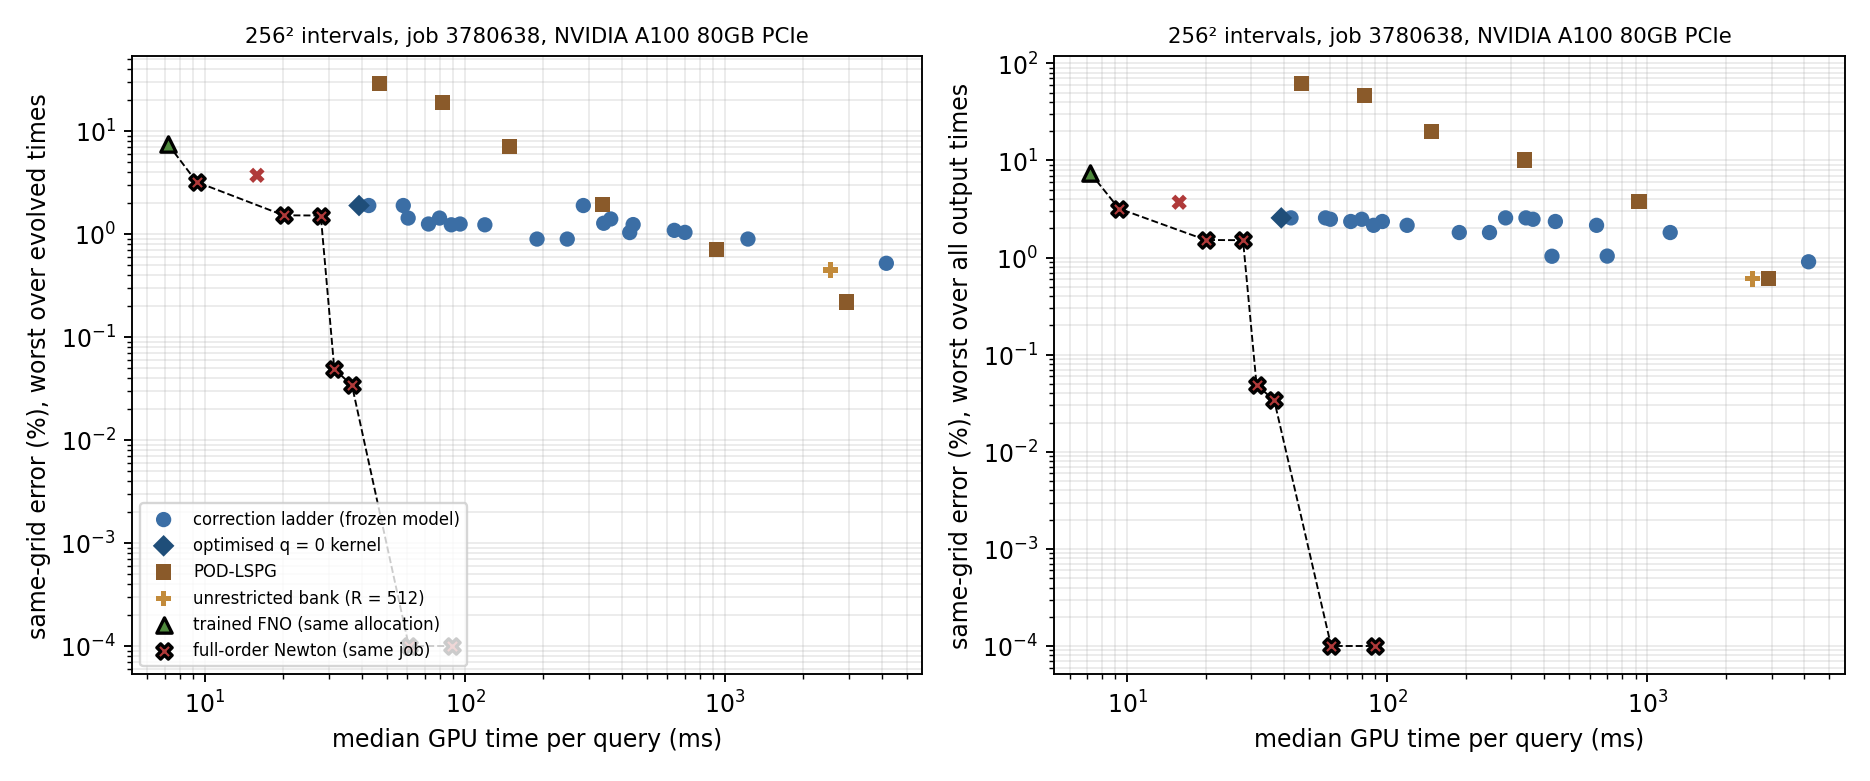
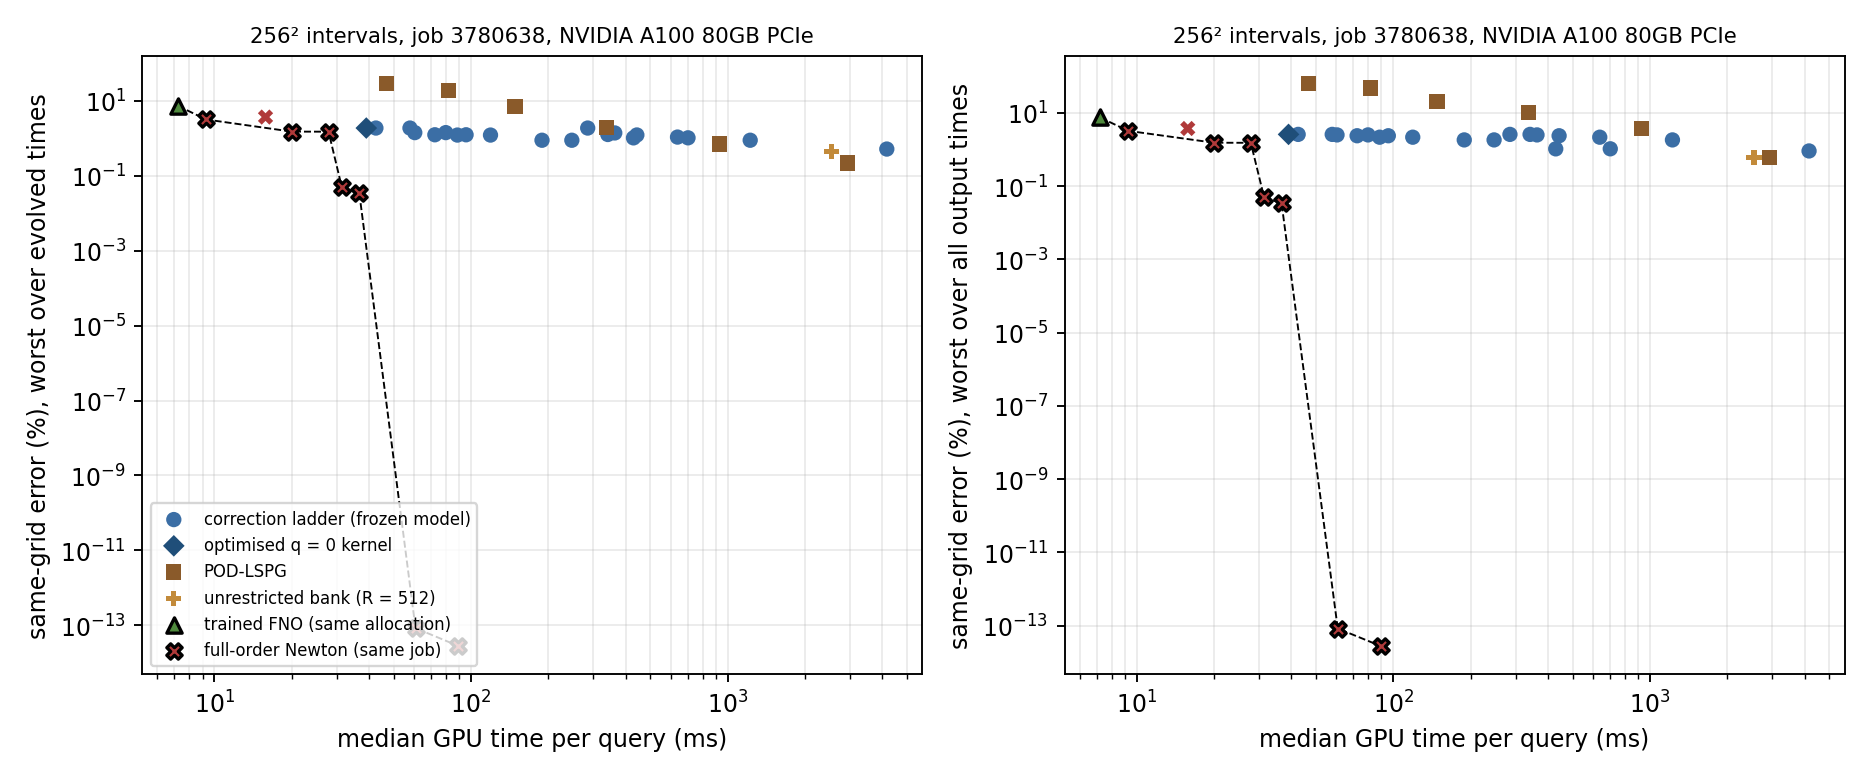
b-panel: generated metric caveat, frontier headline, data-derived plot floor
Claude-Session: https://claude.ai/code/session_01Pigf6iVeGjo2XHb1pgrCVn

diff --git a/experiments/b-panel/reports/generate_panel.py b/experiments/b-panel/reports/generate_panel.py
@@ -47,6 +47,10 @@ def table(header, rows):
     return '\n'.join(out) + '\n'
 
 
+def by_arm(au, name):
+    return next((x for x in au['arms'] if x['arm'] == name), None)
+
+
 def sub_label(x):
     if x['family'] in ('rom', 'fast'):
         return f"q={x['q']}"
@@ -59,6 +63,9 @@ def figure(au, out_png, out_pdf, out_json):
     rows = au['arms']
     fig, axes = plt.subplots(1, 2, figsize=(11, 4.6))
     plotted = []
+    pos = [x[k] for x in rows for k in ('worst_evolved_percent', 'worst_all_times_percent')
+           if x.get(k) is not None and x[k] > 0]
+    floor = min(pos) / 3. if pos else 1e-4      # exactly-zero subjects are the same-grid reference itself
     for ax, ek, title in ((axes[0], 'worst_evolved_percent', 'worst over evolved times'),
                           (axes[1], 'worst_all_times_percent', 'worst over all output times')):
         nd = set(au['nondominated']['gpu_evolved' if ek.startswith('worst_evolved') else 'gpu_all']['admissible'])
@@ -70,14 +77,14 @@ def figure(au, out_png, out_pdf, out_json):
             fam = x['family']
             lab = LABEL[fam] if fam not in seen else None
             seen.add(fam)
-            ax.scatter(c, max(er, 1e-4), marker=MARK[fam], s=42 if x['admissible'] else 26, c=COLOR[fam],
+            ax.scatter(c, max(er, floor), marker=MARK[fam], s=42 if x['admissible'] else 26, c=COLOR[fam],
                        alpha=1. if x['admissible'] else .45, edgecolors='k' if x['arm'] in nd else 'none',
                        linewidths=1.4 if x['arm'] in nd else 0, label=lab, zorder=3)
             plotted.append(dict(metric=ek, arm=x['arm'], family=fam, median_gpu_ms=c, error_percent=er,
                                 admissible=x['admissible'], nondominated=(x['arm'] in nd)))
         front = sorted([x for x in rows if x['arm'] in nd], key=lambda z: z['median_gpu_ms'])
         if front:
-            ax.plot([z['median_gpu_ms'] for z in front], [max(z[ek], 1e-4) for z in front], 'k--', lw=.8, zorder=2)
+            ax.plot([z['median_gpu_ms'] for z in front], [max(z[ek], floor) for z in front], 'k--', lw=.8, zorder=2)
         ax.set_xscale('log')
         ax.set_yscale('log')
         ax.set_xlabel('median GPU time per query (ms)')
@@ -102,6 +109,22 @@ def section(W, au, tag):
       f"Costs are medians over 6 cases × 3 repetitions; ratios are only meaningful inside this table.\n")
     if au['dropped']:
         W('**Subjects dropped by the OOM rule (DESIGN.md §3.1):** ' + ', '.join(f"`{d['name']}` ({d['phase']})" for d in au['dropped']) + '\n')
+    zero = [x['arm'] for x in au['arms'] if x['worst_all_times_percent'] <= 0.]
+    disc = au['fom_discretisation_error_percent']
+    if zero:
+        W('### How to read the two error columns\n')
+        verb = 'sits' if len(zero) == 1 else 'sit'
+        W(f"The same-grid columns measure every subject against this job's converged `fft_tight` solve, so "
+          f"**{' and '.join(f'`{z}`' for z in zero)} {verb} at exactly zero there by construction** — "
+          f"`fft_tight` *is* the reference, and `dense_tight`, the same solve through a different "
+          f"preconditioner, agrees with it to "
+          f"{sci(au['checks']['direct_reproduces_fft_tight']['detail']['worst_relative'])} relative. They are "
+          f"plotted at the axis floor, and they appear on the same-grid frontier for that reason, not because "
+          f"they are free. The `worst vs ref %` column is where the full-order solvers are not free: against the "
+          f"4096-interval reference this mesh's own discretisation error is "
+          f"{f(min(disc.values()))}–{f(max(disc.values()))} % for the full-order controls, and every reduced "
+          f"subject inherits it. A reduced subject is only interesting where it is cheaper than a full-order "
+          f"solve of the accuracy it actually delivers.\n")
     W('### Every subject\n')
     hdr = ['subject', 'family', 'q / k′', 'M', 'quad.', 'm', 'rule basis', 'tol', 'worst all %', 'worst evolved %',
            'median evolved %', 't=0 %', 'worst vs ref %', 'GPU ms', 'complete ms', 'med it', 'max it', 'budget exits',
@@ -120,6 +143,22 @@ def section(W, au, tag):
     W(table(hdr, [[f"`{x['arm']}`", json.dumps(x['exit_reason_counts']), sci(x['max_joint_stationarity']), sci(x['max_ic_stationarity']),
                    sci(x['max_ic_relative_residual']), f(x['converged']), f(x['converged_strict'])]
                   for x in au['arms'] if x['kind'] == 'rom']))
+    W('### What is on the frontier\n')
+    nd_adm = set(au['nondominated']['gpu_evolved']['admissible'])
+    red = [x for x in au['arms'] if x['family'] in ('rom', 'fast', 'pod', 'free') and x['admissible']]
+    best_red = min(red, key=lambda x: x['worst_evolved_percent']) if red else None
+    cheaper_fom = [x for x in au['arms'] if x['family'] == 'fom'
+                   and best_red and x['worst_evolved_percent'] <= best_red['worst_evolved_percent']
+                   and x['median_gpu_ms'] <= best_red['median_gpu_ms']]
+    n_red_front = sum(1 for a_ in nd_adm if (by_arm(au, a_) or {}).get('family') in ('rom', 'fast', 'pod', 'free'))
+    W(f"On (median GPU ms, worst evolved %) over admissible subjects, **{n_red_front} of the "
+      f"{len(red)} reduced subjects are non-dominated**. " +
+      (f"The most accurate reduced subject is `{best_red['arm']}` at {f(best_red['worst_evolved_percent'])} % and "
+       f"{f(best_red['median_gpu_ms'], 1)} ms; " +
+       (f"the full-order settings that are **both cheaper and at least as accurate** are "
+        + ', '.join(f"`{x['arm']}` ({f(x['worst_evolved_percent'])} %, {f(x['median_gpu_ms'], 1)} ms)" for x in cheaper_fom)
+        + '.' if cheaper_fom else 'no full-order setting is both cheaper and at least as accurate.')
+       if best_red else '') + '\n')
     W('### Non-dominated sets\n')
     for key, v in au['nondominated'].items():
         W(f"**({v['cost']}, {v['error']})** — admissible subjects: " + (', '.join(f'`{a}`' for a in v['admissible']) or 'none')

diff --git a/experiments/b-panel/reports/2026-09-17-b-panel.md b/experiments/b-panel/reports/2026-09-17-b-panel.md
@@ -27,6 +27,10 @@ flowchart LR
 
 Source commit `89df5cd18b01d99e630999ddfed5ddf43bba377c`, attempt `bpn101`, elapsed 1712.8 s, JAX pool fraction 0.90, 35 timed subjects, failed gates: none. Every error below is against this job's own converged `fft_tight` solve (same grid) unless the column says reference; 'reference' is the 4096-interval solve. Costs are medians over 6 cases × 3 repetitions; ratios are only meaningful inside this table.
 
+### How to read the two error columns
+
+The same-grid columns measure every subject against this job's converged `fft_tight` solve, so **`fft_tight` sits at exactly zero there by construction** — `fft_tight` *is* the reference, and `dense_tight`, the same solve through a different preconditioner, agrees with it to 9.2e-16 relative. They are plotted at the axis floor, and they appear on the same-grid frontier for that reason, not because they are free. The `worst vs ref %` column is where the full-order solvers are not free: against the 4096-interval reference this mesh's own discretisation error is 2.4737–5.1761 % for the full-order controls, and every reduced subject inherits it. A reduced subject is only interesting where it is cheaper than a full-order solve of the accuracy it actually delivers.
+
 ### Every subject
 
 | subject | family | q / k′ | M | quad. | m | rule basis | tol | worst all % | worst evolved % | median evolved % | t=0 % | worst vs ref % | GPU ms | complete ms | med it | max it | budget exits | conv. | strict | admissible |
@@ -99,6 +103,10 @@ Source commit `89df5cd18b01d99e630999ddfed5ddf43bba377c`, attempt `bpn101`, elap
 | `pod256_M1024_dense` | {"4": 900} | 6.3e-02 | 6.3e-02 | 7.2e-18 | yes | no |
 | `pod512_M2048_dense` | {"4": 900} | 4.5e-02 | 4.5e-02 | 1.4e-17 | yes | no |
 | `free512_M1024_dense` | {"4": 900} | 1.9e-01 | 1.9e-01 | 1.0e-15 | yes | no |
+
+### What is on the frontier
+
+On (median GPU ms, worst evolved %) over admissible subjects, **0 of the 27 reduced subjects are non-dominated**. The most accurate reduced subject is `pod512_M2048_dense` at 0.2184 % and 2928.9 ms; the full-order settings that are **both cheaper and at least as accurate** are `dense_tight` (0.0000 %, 60.8 ms), `fft_tight` (0.0000 %, 89.3 ms), `nt1e-3_dt005` (0.0489 %, 31.4 ms), `nt1e-4_dt005` (0.0338 %, 36.7 ms).
 
 ### Non-dominated sets
 
